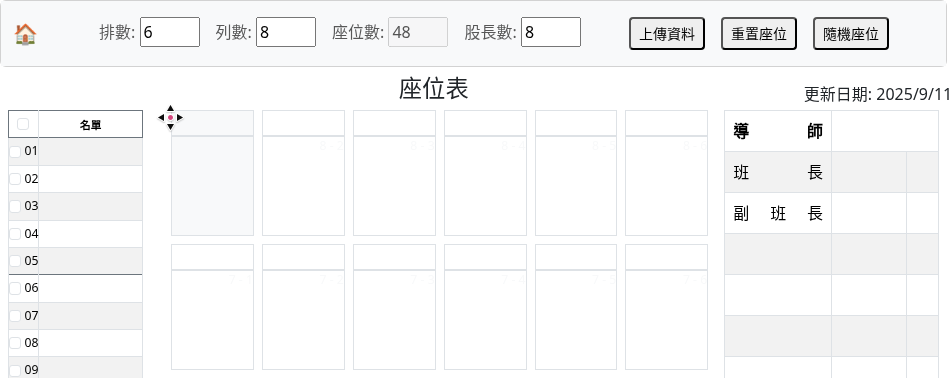
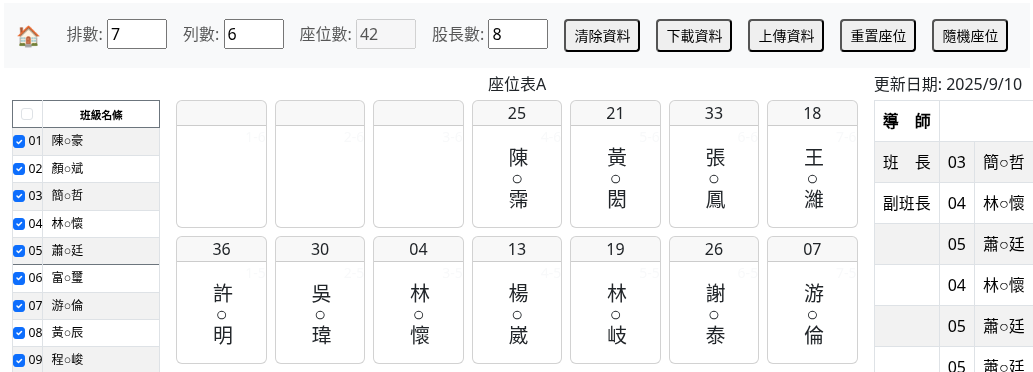
Adjust layout and improve some function code

diff --git a/index.html b/index.html
@@ -67,8 +67,8 @@
 </style>
 </head>
 <body>
-<div id="app" class="container-fluid" v-cloak>
-    <div class="d-print-none card m-1">
+<div id="app" class="w-auto" v-cloak>
+    <div class="d-print-none m-1">
         <!-- top area -->
         <nav class="navbar navbar-expand-lg bg-light">
             <div class="container-fluid">
@@ -78,10 +78,10 @@
                 <a class="navbar-brand" href="">🏠</a>
                 <div class="collapse navbar-collapse" id="navbarNavAltMarkup">
                     <div class="navbar-nav m-auto">
-                        <span class="nav-link">{{ $gettext('Number of columns') }}: <input type="number" style="width:60px" v-model.lazy="totalX" min="1" ref="totalxs" @change="store" @focus="$event.target.select()"></span>
-                        <span class="nav-link">{{ $gettext('Number of rows') }}: <input type="number" style="width:60px" v-model.lazy="totalY" min="1" ref="totalys" @change="store" @focus="$event.target.select()"></span>
+                        <span class="nav-link">{{ $gettext('Number of columns') }}: <input type="number" style="width:60px" v-model="totalX" min="1" ref="totalxs" @change="store" @focus="$event.target.select()"></span>
+                        <span class="nav-link">{{ $gettext('Number of rows') }}: <input type="number" style="width:60px" v-model="totalY" min="1" ref="totalys" @change="store" @focus="$event.target.select()"></span>
                         <span class="nav-link" aria-current="page">{{ $gettext('Number of seats') }}: <input type="number" style="width:60px" v-model="totalNamelist" min="1" ref="totalnums" @change="store" :value="totalX * totalY" disabled></span>
-                        <span class="nav-link">{{ $gettext('Number of leaders') }}: <input type="number" style="width:60px" v-model.lazy="totalLeader" min="1" :max="totalNamelist" ref="totalleaders" @change="store" @focus="$event.target.select()"></span>
+                        <span class="nav-link">{{ $gettext('Number of leaders') }}: <input type="number" style="width:60px" v-model="totalLeader" min="1" :max="totalNamelist" ref="totalleaders" @change="store" @focus="$event.target.select()"></span>
                         <span class="nav-link"><button class="form-control-sm" @click="clearStore" v-if="storeData">{{ $gettext('Clear data') }}</button></span>
                         <span class="nav-link"><button class="form-control-sm" @click="download" v-if="storeData">{{ $gettext('Download data') }}</button></span>
                         <span class="nav-link"><input type="file" ref="uploadfile" @change="uploadfileChange" class="d-none" accept="application/json"><button class="form-control-sm" @click="uploadData">{{ $gettext('Upload data') }}</button></span>
@@ -91,17 +91,17 @@
                 </div>
             </div>
         </nav>
-        <div class="input-group-text m-auto" @click="tipsToHide" v-show="!hideTips">{{ $gettext('Please directly click on the name or seat number area to enter information') }}</div>
+        <div class="alert alert-primary p-1 m-auto" @click="tipsToHide" v-show="!hideTips">{{ $gettext('Please directly click on the name or seat number area to enter information') }}</div>
 
     </div>
-    <div class="row m-auto" :class="xColClass">
-        <div class="col-1"></div>
-        <div class="text-center col-10" @click="clickToEdit" ref="tabletitle">{{ $gettext('Seats charts') }}</div>
-        <div class="col-1 align-self-end text-nowrap"><span @click="clickToEdit" ref="updateLabel">{{ $gettext('Update') }}</span>: <span @click="clickToEdit" ref="today">{{ new Date().toLocaleDateString() }} </span></div>
+    <div class="row m-auto">
+        <div class="col-3 col-xl-2 col-lg-2 col col-md-3 col-sm-3"></div>
+        <div class="col-3 col-xl-8 col-lg-8 col-md-6 col-sm-6 text-center" @click="clickToEdit" ref="tabletitle">{{ $gettext('Seats charts') }}</div>
+        <div class="col-3 col-xl-2 col-lg-2 col-md-3 sol-sm-3 align-self-end text-nowrap"><span @click="clickToEdit" ref="updateLabel">{{ $gettext('Update') }}</span>: <span @click="clickToEdit" ref="today">{{ new Date().toLocaleDateString() }} </span></div>
     </div>
 
-    <div class="row col-sm-12 mx-auto" :class="xColClass">
-        <div class="pt-1" :class="xColClassStart">
+    <div class="row m-auto">
+        <div class="pt-1 col-2">
             <!-- left area -->
             <table class="table table-bordered table-striped small">
                 <thead>
@@ -128,13 +128,14 @@
             </table>
 
         </div>
-        <div class="ps-4 pb-3" :class="xColClassCenter">
+        <div class="col-8">
             <!-- center area -->
             <div class="row flex-nowrap" v-for="y in totalY">
                 <div class="col p-1" v-for="x in totalX">
-                    <div class="col p-0 seat-row seat-container border h-100" :class="{ 'bg-warning': posdata[((y-1)*totalX + x-1)]?.innerText === highlightedPos }" @click="toggleColor" draggable="true" @dragstart="dragStart(((y-1)*totalX + x-1), 'seat', $event)" @dragover.prevent @drop="drop(((y-1)*totalX + x-1), $event)">
-                        <div class="col border-bottom text-center" @click="clickToEdit($event, 'posdata', x, y)" style="min-height:26px" ref="posdata"></div>
-                        <div class="col text-center w-100 small" style="min-height:100px"><div class="small text-light text-end">{{ `${totalY - y + 1} - ${x}` }}</div><span class="text-nowrap fs-5" style="-webkit-writing-mode:vertical-lr;writing-mode:vertical-lr" ref="posname"></span></div>
+                    <div class="col p-0 seat-row seat-container card h-100" :class="{ 'bg-warning': posdata[((y-1)*totalX + x-1)]?.innerText === highlightedPos }" @click="toggleColor" draggable="true" @dragstart="dragStart(((y-1)*totalX + x-1), 'seat', $event)" @dragover.prevent @drop="drop(((y-1)*totalX + x-1), $event)">
+                        <div class="col card-header text-center p-0" style="min-width:30px;max-height:26px" @click="clickToEdit($event, 'posdata', x, y)" ref="posdata"></div>
+                        <div class="small text-light text-end">{{ `${x}-${totalY - y + 1}` }}</div>
+                        <div class="col card-body p-0 mx-auto" style="min-height:80px"><span class="text-nowrap fs-5" style="-webkit-writing-mode:vertical-lr;writing-mode:vertical-lr" ref="posname"></span></div>
                     </div>
                 </div>
             </div>
@@ -142,7 +143,7 @@
                 <div class="mx-auto text-center" style="border: 1px solid gray;" @click="clickToEdit" ref="deskname">{{ $gettext('Desk') }}</div>
             </div>
         </div>
-        <div class="pt-1" :class="xColClassEnd">
+        <div class="col-2 pt-1">
             <!-- right area -->
             <table class="table table-bordered table-striped">
                 <thead>
@@ -166,6 +167,29 @@ window.randomNumbers = [];
 const { createApp, ref, reactive, watch } = Vue;
 
 const app = createApp({
+    beforeCreate() {
+        window.data = localStorage.getItem('data');
+        if (window.data) {
+            window.data = JSON.parse(window.data);
+            window.dkeys = Object.keys(window.data);
+            window.dkeys.forEach((i) => {
+                if ('tabletitle' == i)
+                    document.title = window.data[i];
+                else if ('today' == i)
+                    this.today = window.data[i];
+                else if ('totalNamelist' == i)
+                    this.totalNamelist = parseInt(window.data[i]);
+                else if ('totalX' == i)
+                    this.totalX = parseInt(window.data[i]);
+                else if ('totalY' == i)
+                    this.totalY = parseInt(window.data[i]);
+                else if ('totalLeader' == i)
+                    this.totalLeader = parseInt(window.data[i]);
+
+            });
+        }
+        this.hideTips = this.getCookie('hideTips') == 1;
+    },
     setup() {
 
         const getCookie = (name) => {
@@ -601,27 +625,9 @@ const app = createApp({
             studentListLabel: ref($gettext('Lists'))
         };
 
-        watch(storeRefs.totalX, async(i) => {
-            if (i > 6) {
-                refs.xColClass.value = 'col-lg-12 col-md-12';
-                refs.xColClassStart.value = 'col-1';
-                refs.xColClassCenter.value = 'col-10';
-                refs.xColClassEnd.value = 'col-1';
-            } else {
-                refs.xColClass.value = 'col-lg-8';
-                refs.xColClassStart.value = 'col-2 col-md-2';
-                refs.xColClassCenter.value = 'col-7';
-                refs.xColClassEnd.value = 'col-2';
-            }
-        });
-
         const refs = {
             uploadfile: ref(null),
             storeData: ref(0),
-            xColClass: ref('col-xl-7 col-md-12'),
-            xColClassStart: ref('col-2 col-md-2'),
-            xColClassCenter: ref('col-6'),
-            xColClassEnd: ref('col-2'),
             posname: reactive([]),
             posindex: ref(0),
             leadersname: reactive([]),
@@ -652,30 +658,6 @@ const app = createApp({
             drop,
             toggleColor
         };
-    },
-    beforeCreate() {
-        window.data = localStorage.getItem('data');
-        if (window.data) {
-            window.data = JSON.parse(window.data);
-            window.dkeys = Object.keys(window.data);
-            window.dkeys.forEach((i) => {
-                if ('tabletitle' == i)
-                    document.title = window.data[i];
-                else if ('today' == i)
-                    this.today = window.data[i];
-                else if ('totalNamelist' == i)
-                    this.totalNamelist = parseInt(window.data[i]);
-                else if ('totalX' == i)
-                    this.totalX = parseInt(window.data[i]);
-                else if ('totalY' == i)
-                    this.totalY = parseInt(window.data[i]);
-                else if ('totalLeader' == i)
-                    this.totalLeader = parseInt(window.data[i]);
-
-            });
-        }
-        this.hideTips = this.getCookie('hideTips') == 1;
-
     },
     mounted() {
 
